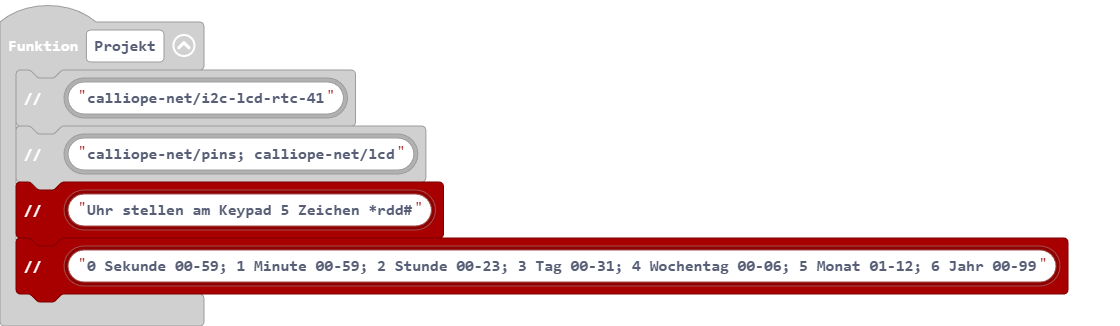
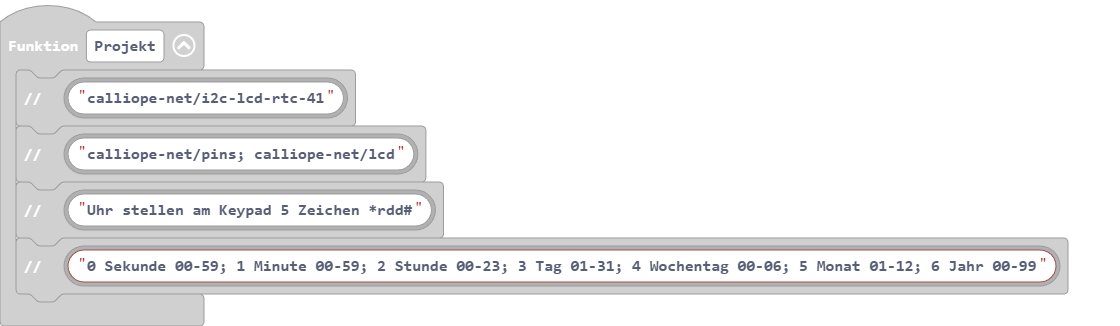
Aktualisiere main.blocks, main.ts

Changed region(s): [[0.0, 0.5521, 0.9688, 0.9509], [0.5, 0.7975, 0.5312, 0.8282]]

diff --git a/main.ts b/main.ts
@@ -10,7 +10,7 @@ function Projekt () {
     pins.comment(pins.pins_text("calliope-net/i2c-lcd-rtc-41"))
     pins.comment(pins.pins_text("calliope-net/pins; calliope-net/lcd"))
     pins.comment(pins.pins_text("Uhr stellen am Keypad 5 Zeichen *rdd#"))
-    pins.comment(pins.pins_text("0 Sekunde 00-59; 1 Minute 00-59; 2 Stunde 00-23; 3 Tag 00-31; 4 Wochentag 00-06; 5 Monat 01-12; 6 Jahr 00-99"))
+    pins.comment(pins.pins_text("0 Sekunde 00-59; 1 Minute 00-59; 2 Stunde 00-23; 3 Tag 01-31; 4 Wochentag 00-06; 5 Monat 01-12; 6 Jahr 00-99"))
 }
 let a = 0
 lcd.init_display(lcd.eDisplay.qwiic_16_2)
